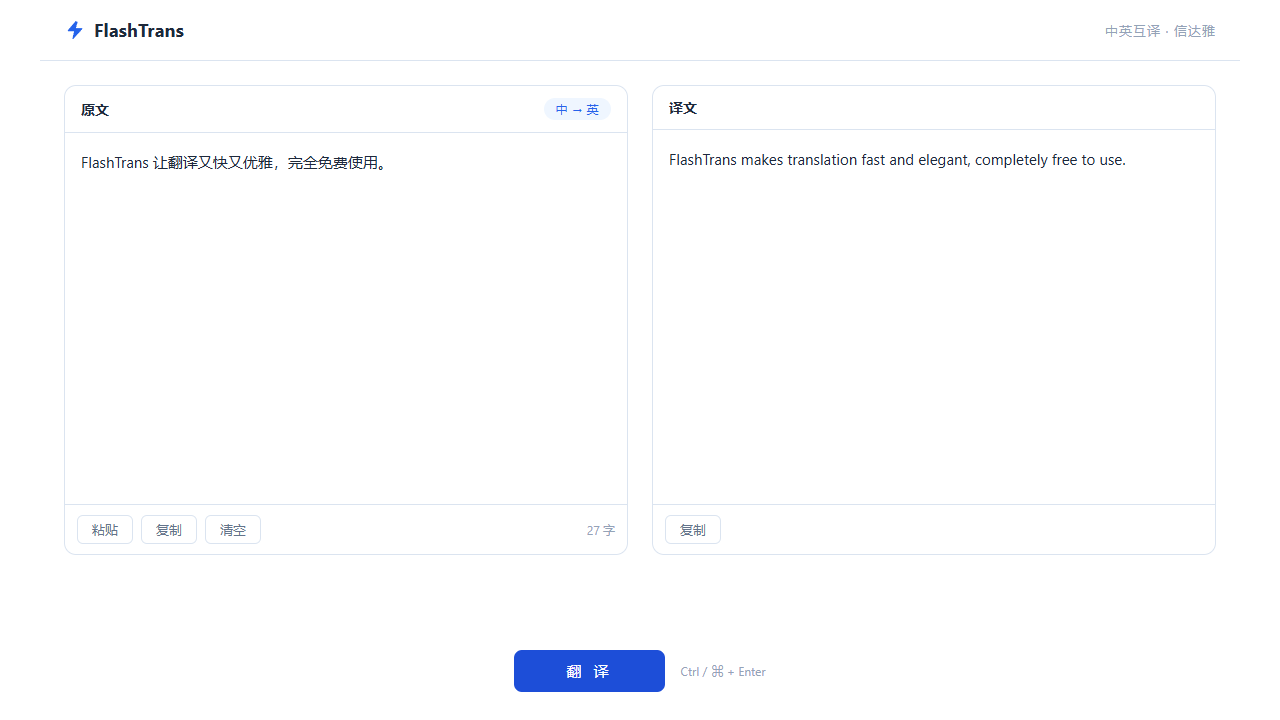
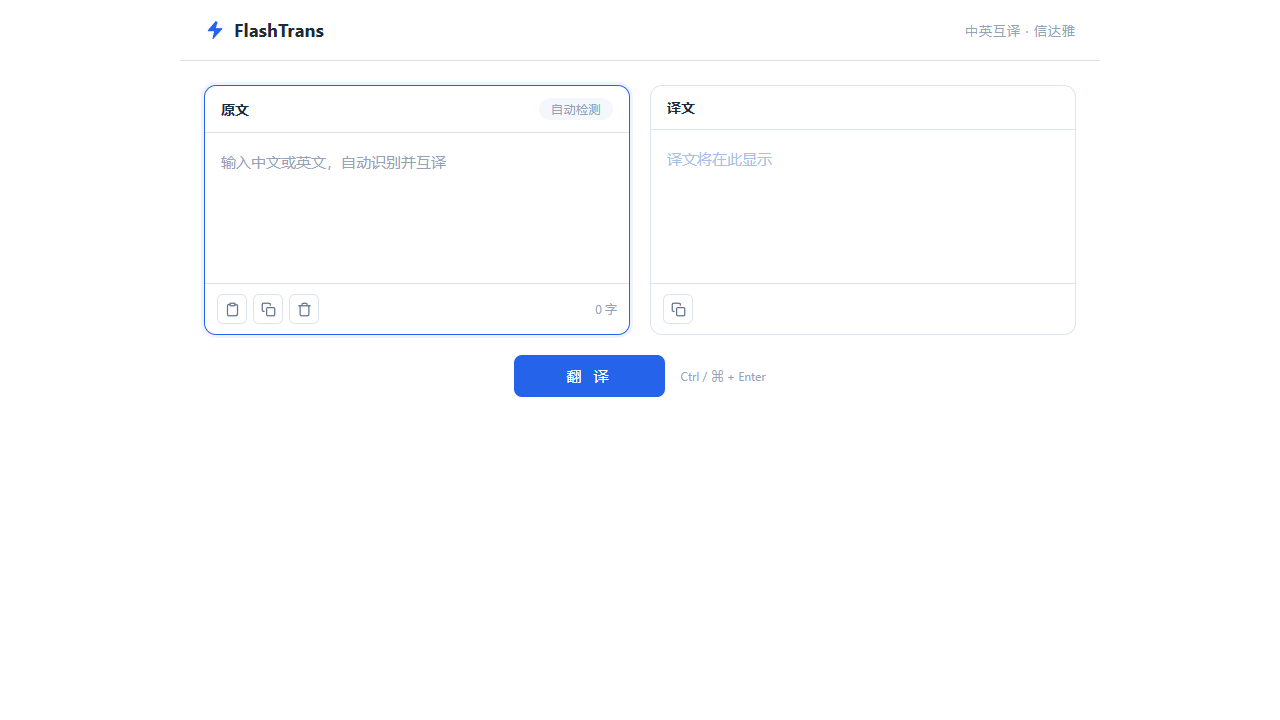
style: 面板高度减半，按钮图标化，布局收窄居中

diff --git a/index.html b/index.html
@@ -28,9 +28,15 @@
       <textarea id="input" placeholder="输入中文或英文，自动识别并互译" spellcheck="false" autofocus></textarea>
       <div class="panel-foot">
         <div class="btn-group">
-          <button type="button" id="btnPaste" class="btn">粘贴</button>
-          <button type="button" id="btnCopyInput" class="btn">复制</button>
-          <button type="button" id="btnClear" class="btn">清空</button>
+          <button type="button" id="btnPaste" class="btn-icon" title="粘贴" aria-label="粘贴">
+            <svg viewBox="0 0 24 24" fill="none" stroke="currentColor" stroke-width="2" stroke-linecap="round" stroke-linejoin="round"><path d="M16 4h2a2 2 0 0 1 2 2v14a2 2 0 0 1-2 2H6a2 2 0 0 1-2-2V6a2 2 0 0 1 2-2h2"/><rect x="8" y="2" width="8" height="4" rx="1"/></svg>
+          </button>
+          <button type="button" id="btnCopyInput" class="btn-icon" title="复制原文" aria-label="复制原文">
+            <svg viewBox="0 0 24 24" fill="none" stroke="currentColor" stroke-width="2" stroke-linecap="round" stroke-linejoin="round"><rect x="9" y="9" width="13" height="13" rx="2"/><path d="M5 15H4a2 2 0 0 1-2-2V4a2 2 0 0 1 2-2h9a2 2 0 0 1 2 2v1"/></svg>
+          </button>
+          <button type="button" id="btnClear" class="btn-icon" title="清空" aria-label="清空">
+            <svg viewBox="0 0 24 24" fill="none" stroke="currentColor" stroke-width="2" stroke-linecap="round" stroke-linejoin="round"><path d="M3 6h18"/><path d="M19 6v14a2 2 0 0 1-2 2H7a2 2 0 0 1-2-2V6"/><path d="M8 6V4a2 2 0 0 1 2-2h4a2 2 0 0 1 2 2v2"/></svg>
+          </button>
         </div>
         <span class="char-count" id="charCount">0 字</span>
       </div>
@@ -44,7 +50,9 @@
       <div class="output" id="output"><span class="placeholder">译文将在此显示</span></div>
       <div class="panel-foot">
         <div class="btn-group">
-          <button type="button" id="btnCopyOutput" class="btn">复制</button>
+          <button type="button" id="btnCopyOutput" class="btn-icon" title="复制译文" aria-label="复制译文">
+            <svg viewBox="0 0 24 24" fill="none" stroke="currentColor" stroke-width="2" stroke-linecap="round" stroke-linejoin="round"><rect x="9" y="9" width="13" height="13" rx="2"/><path d="M5 15H4a2 2 0 0 1-2-2V4a2 2 0 0 1 2-2h9a2 2 0 0 1 2 2v1"/></svg>
+          </button>
         </div>
       </div>
     </section>

diff --git a/style.css b/style.css
@@ -27,7 +27,7 @@ body {
 
 /* 顶栏 */
 .site-header {
-  max-width: 1200px;
+  max-width: 920px;
   width: 100%;
   margin: 0 auto;
   padding: 18px 24px;
@@ -52,14 +52,13 @@ body {
 
 /* 双栏主体 */
 .panels {
-  flex: 1;
-  max-width: 1200px;
+  max-width: 920px;
   width: 100%;
   margin: 24px auto 0;
   padding: 0 24px;
   display: grid;
   grid-template-columns: 1fr 1fr;
-  gap: 24px;
+  gap: 20px;
   min-height: 0;
 }
 
@@ -69,8 +68,8 @@ body {
   background: #ffffff;
   display: flex;
   flex-direction: column;
-  height: calc(100vh - 250px);
-  min-height: 340px;
+  height: calc(50vh - 110px);
+  min-height: 200px;
   transition: border-color 0.15s ease, box-shadow 0.15s ease;
 }
 
@@ -138,27 +137,31 @@ textarea::placeholder { color: var(--ink-faint); }
   border-top: 1px solid var(--line);
 }
 
-.btn-group { display: flex; gap: 8px; }
+.btn-group { display: flex; gap: 6px; }
 
-.btn {
-  font-size: 13px;
-  font-family: inherit;
+.btn-icon {
+  display: inline-flex;
+  align-items: center;
+  justify-content: center;
+  width: 30px;
+  height: 30px;
   color: var(--ink-weak);
   background: #ffffff;
   border: 1px solid var(--line);
   border-radius: 6px;
-  padding: 5px 14px;
   cursor: pointer;
   transition: all 0.15s ease;
 }
 
-.btn:hover {
+.btn-icon svg { width: 15px; height: 15px; }
+
+.btn-icon:hover {
   color: var(--blue);
   border-color: var(--blue);
   background: var(--blue-weak);
 }
 
-.btn:active { transform: scale(0.97); }
+.btn-icon:active { transform: scale(0.94); }
 
 .char-count { font-size: 12px; color: var(--ink-faint); }
 
@@ -218,8 +221,8 @@ textarea::placeholder { color: var(--ink-faint); }
 
 /* 移动端 */
 @media (max-width: 768px) {
-  .panels { grid-template-columns: 1fr; gap: 16px; margin-top: 16px; }
+  .panels { grid-template-columns: 1fr; gap: 14px; margin-top: 16px; }
   .panel { height: auto; min-height: 0; }
-  textarea, .output { min-height: 180px; }
+  textarea, .output { min-height: 140px; }
   .tagline { display: none; }
 }
